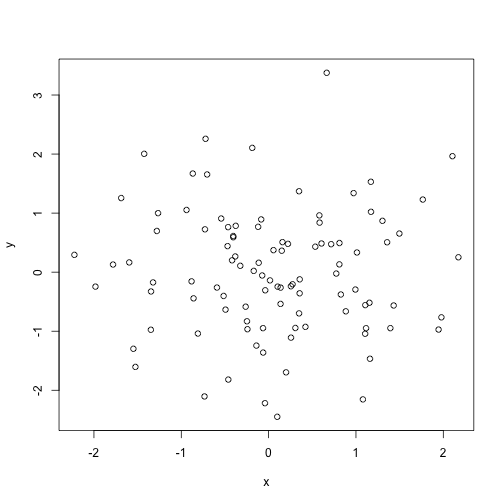
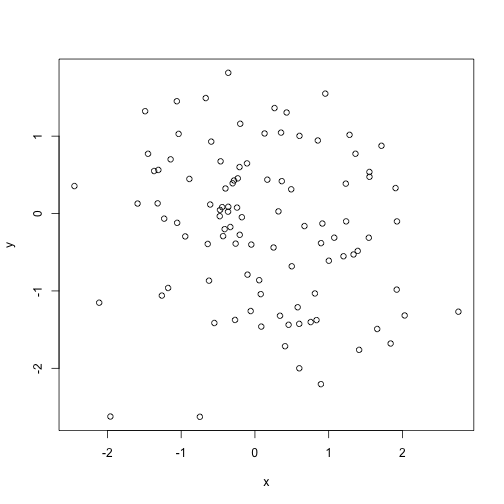
final

diff --git a/Tyler1.md b/Tyler1.md
@@ -75,15 +75,14 @@ dontknow[somesample]
 ```
 
 ```
-##  [1]  600.18913  283.70554   59.06552  902.03005  891.72640  492.37068
-##  [7]  203.17743  166.06670  767.78656  987.61346  198.29451  966.93476
-## [13]  472.22449  444.03691  831.18529  512.66291  680.19663  167.01981
-## [19]  881.79410  833.05013  656.82411  868.94668  746.95164  775.47432
-## [25]  933.78061  712.00137  886.21633  620.29902  524.14896  298.39253
-## [31]   70.03665  614.06216  675.92816  664.70560  805.63821  141.94101
-## [37]  894.21830  560.62687   93.52872  776.67012 1000.02515  828.93403
-## [43]  123.57157  740.26294  947.66340  731.70477  887.45151  594.41584
-## [49]  772.84008  652.41617
+##  [1] 917.79386 230.19167 436.54081 248.44031 160.51412 615.84445 664.05953
+##  [8] 850.02571 442.79959 213.23401 827.72347 435.07857 371.95230  80.08189
+## [15] 648.21904 294.45161 406.84769 292.48212 993.65162 100.60596  99.16315
+## [22] 678.24064  27.58611 705.79853 829.99811  97.49354 475.45019 181.10204
+## [29] 262.26738 724.59939 379.26265 862.96437 275.60205  55.93078 324.07150
+## [36] 533.96649 538.74854  97.50017 182.08662 498.81579 471.26478 823.97078
+## [43] 949.63593 473.92164 506.66931 313.05863 926.54682 467.86445  91.97510
+## [50] 606.22260
 ```
 
 ```r
@@ -98,7 +97,7 @@ reg
 ## 
 ## Coefficients:
 ##        (Intercept)     age[somesample]  gender[somesample]  
-##             10.148              10.001               9.571
+##              10.02               10.00               10.00
 ```
 
 ```r
@@ -112,19 +111,19 @@ summary(reg)
 ## 
 ## Residuals:
 ##     Min      1Q  Median      3Q     Max 
-## -2.7027 -0.6121  0.0886  0.6431  2.3149 
+## -1.9822 -0.8109 -0.0143  0.5387  2.0355 
 ## 
 ## Coefficients:
 ##                     Estimate Std. Error t value Pr(>|t|)    
-## (Intercept)        10.148342   0.373372   27.18   <2e-16 ***
-## age[somesample]    10.001169   0.004785 2089.94   <2e-16 ***
-## gender[somesample]  9.570982   0.274831   34.83   <2e-16 ***
+## (Intercept)        10.019469   0.312489   32.06   <2e-16 ***
+## age[somesample]    10.000844   0.005169 1934.67   <2e-16 ***
+## gender[somesample] 10.004978   0.283370   35.31   <2e-16 ***
 ## ---
 ## Signif. codes:  0 '***' 0.001 '**' 0.01 '*' 0.05 '.' 0.1 ' ' 1
 ## 
-## Residual standard error: 0.9388 on 47 degrees of freedom
+## Residual standard error: 0.9977 on 47 degrees of freedom
 ## Multiple R-squared:      1,	Adjusted R-squared:      1 
-## F-statistic: 2.198e+06 on 2 and 47 DF,  p-value: < 2.2e-16
+## F-statistic: 1.873e+06 on 2 and 47 DF,  p-value: < 2.2e-16
 ```
 Check if the confidence interval contains the true values of beta1 and beta2.
 
@@ -134,7 +133,7 @@ confint(reg, "(Intercept)")
 
 ```
 ##                2.5 %   97.5 %
-## (Intercept) 9.397215 10.89947
+## (Intercept) 9.390822 10.64812
 ```
 
 ```r
@@ -142,8 +141,8 @@ confint(reg, "age[somesample]")
 ```
 
 ```
-##                    2.5 %  97.5 %
-## age[somesample] 9.991542 10.0108
+##                    2.5 %   97.5 %
+## age[somesample] 9.990445 10.01124
 ```
 
 ```r
@@ -151,8 +150,8 @@ confint(reg, "gender[somesample]")
 ```
 
 ```
-##                       2.5 %   97.5 %
-## gender[somesample] 9.018093 10.12387
+##                      2.5 %   97.5 %
+## gender[somesample] 9.43491 10.57505
 ```
 Yes the confidence interval contains the true value of beta1 and beta 2
 
@@ -183,7 +182,7 @@ countbeta1
 ```
 
 ```
-## [1] 99
+## [1] 94
 ```
 
 ```r
@@ -191,7 +190,7 @@ countbeta2
 ```
 
 ```
-## [1] 85
+## [1] 100
 ```
 After computing a hundred times, 
 the fraction of times the true parameter beta1
